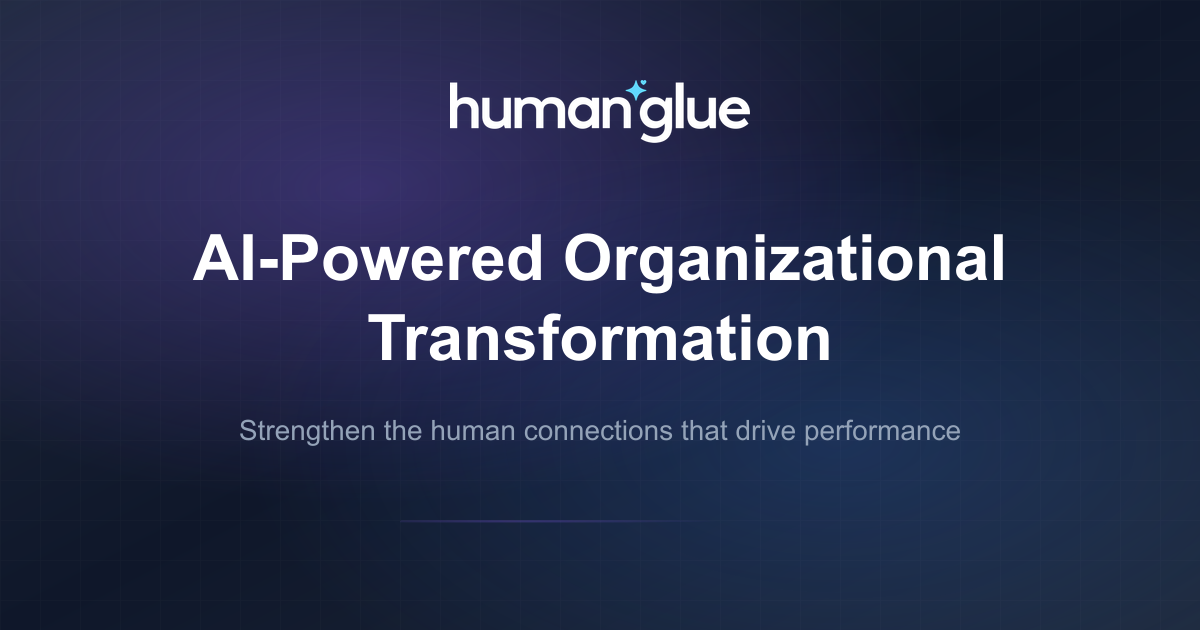
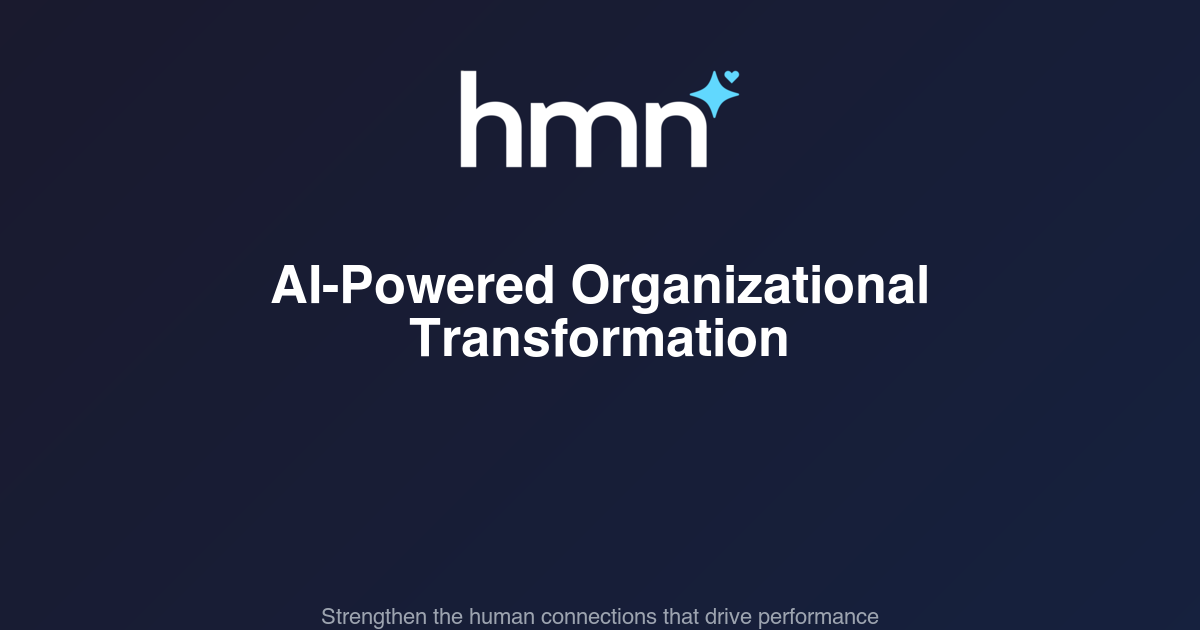
Rebrand from HumanGlue to HMN for social sharing
- Update metadataBase URL to behmn.com
- Update OpenGraph and Twitter image URLs
- Replace og-image.png and twitter-image.png with new hmn logo
- Update Twitter handle from @humanglue to @behmn
- Update structured data URLs and social media links
- Update sitemap and robots.txt URLs
- Update footer branding in MobileOptimizedPage and FigmaLandingPage

diff --git a/app/layout.tsx b/app/layout.tsx
@@ -40,18 +40,18 @@ export const metadata: Metadata = {
     address: false,
     telephone: false,
   },
-  metadataBase: new URL('https://humanglue.netlify.app'),
+  metadataBase: new URL('https://behmn.com'),
   alternates: {
     canonical: '/',
   },
   openGraph: {
     title: 'HMN - AI-Powered Organizational Transformation',
     description: 'Transform your organization with AI-powered insights. Strengthen the human connections that drive performance, innovation, and resilience.',
-    url: 'https://humanglue.netlify.app',
+    url: 'https://behmn.com',
     siteName: 'HMN',
     images: [
       {
-        url: 'https://humanglue.netlify.app/og-image.png',
+        url: 'https://behmn.com/og-image.png',
         width: 1200,
         height: 630,
         alt: 'HMN - Transforming Organizations with AI',
@@ -64,8 +64,8 @@ export const metadata: Metadata = {
     card: 'summary_large_image',
     title: 'HMN - AI-Powered Organizational Transformation',
     description: 'Transform your organization with AI-powered insights. Strengthen human connections that drive performance.',
-    images: ['https://humanglue.netlify.app/twitter-image.png'],
-    creator: '@humanglue',
+    images: ['https://behmn.com/twitter-image.png'],
+    creator: '@behmn',
   },
   robots: {
     index: true,
@@ -120,12 +120,12 @@ export default function RootLayout({
               '@context': 'https://schema.org',
               '@type': 'Organization',
               name: 'HMN',
-              url: 'https://humanglue.netlify.app',
-              logo: 'https://humanglue.netlify.app/logo.png',
+              url: 'https://behmn.com',
+              logo: 'https://behmn.com/hmn_logo.png',
               description: 'AI-powered organizational transformation platform',
               sameAs: [
-                'https://twitter.com/humanglue',
-                'https://linkedin.com/company/humanglue',
+                'https://twitter.com/behmn',
+                'https://linkedin.com/company/behmn',
               ],
               contactPoint: {
                 '@type': 'ContactPoint',
@@ -145,7 +145,7 @@ export default function RootLayout({
               '@context': 'https://schema.org',
               '@type': 'WebApplication',
               name: 'HMN AI Assistant',
-              url: 'https://humanglue.netlify.app',
+              url: 'https://behmn.com',
               applicationCategory: 'BusinessApplication',
               operatingSystem: 'All',
               offers: {

diff --git a/components/templates/FigmaLandingPage.tsx b/components/templates/FigmaLandingPage.tsx
@@ -273,15 +273,13 @@ export function FigmaLandingPage() {
           <div className="flex flex-col md:flex-row justify-between items-start gap-8">
             <div>
               <h3 className="text-2xl font-bold mb-2">
-                <span className="text-white">human</span>
-                <span className="text-blue-400">glue</span>
+                <span className="text-white">hmn</span>
               </h3>
             </div>
             <div className="text-gray-400">
-              <p>94 Merrick Way Suite</p>
-              <p>200, Miami, FL 33134</p>
-              <p className="mt-4">+1 (877) 322-1029</p>
-              <p>hello@humanglue.com</p>
+              <p>Miami, FL</p>
+              <p className="mt-4">+1 (937) 922-3928</p>
+              <p>hello@behmn.com</p>
             </div>
           </div>
         </div>

diff --git a/components/templates/MobileOptimizedPage.tsx b/components/templates/MobileOptimizedPage.tsx
@@ -224,11 +224,11 @@ export function MobileOptimizedPage() {
         {/* Footer */}
         <section className="px-4 py-8 bg-black">
           <div className="text-center space-y-4">
-            <p className="text-sm font-semibold text-gray-400">humanglue</p>
+            <p className="text-sm font-semibold text-gray-400">hmn</p>
             <div className="text-gray-400">
               <p className="text-sm font-semibold mb-2">Made in Miami</p>
               <p className="text-sm">+1 (937) 922-3928</p>
-              <p className="text-sm">info@humanglue.com</p>
+              <p className="text-sm">hello@behmn.com</p>
             </div>
           </div>
         </section>

diff --git a/app/robots.ts b/app/robots.ts
@@ -13,6 +13,6 @@ export default function robots(): MetadataRoute.Robots {
         allow: '/',
       },
     ],
-    sitemap: 'https://humanglue.ai/sitemap.xml',
+    sitemap: 'https://behmn.com/sitemap.xml',
   }
 } 

diff --git a/app/sitemap.ts b/app/sitemap.ts
@@ -1,7 +1,7 @@
 import { MetadataRoute } from 'next'
 
 export default function sitemap(): MetadataRoute.Sitemap {
-  const baseUrl = 'https://humanglue.ai'
+  const baseUrl = 'https://behmn.com'
   
   return [
     {
